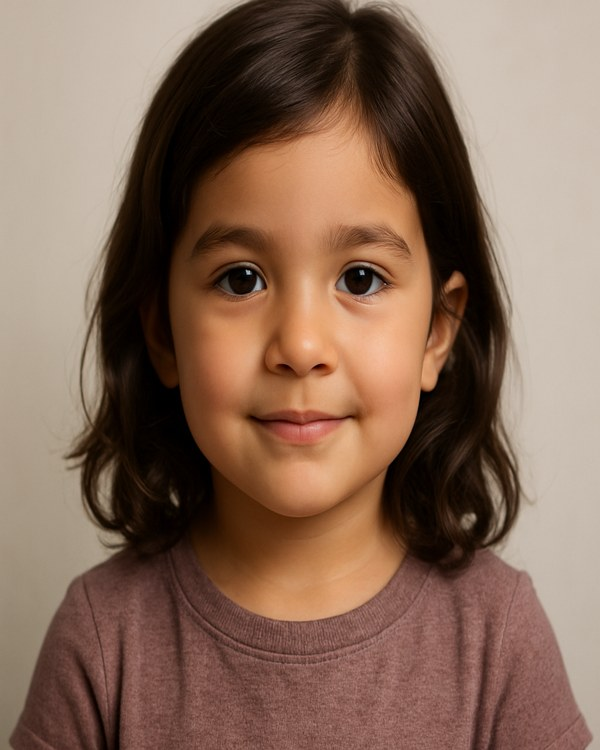
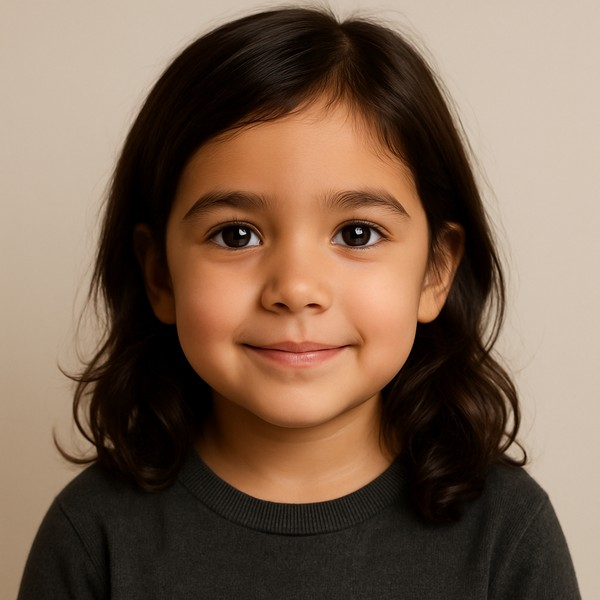
fix: square 1:1 demo portraits blended from parent refs
Crop demo father/mother to 600x600 and regenerate boy/girl children
via OpenAI images.edit from both parents; use aspect-square frames.

diff --git a/components/DemoExample.tsx b/components/DemoExample.tsx
@@ -31,7 +31,7 @@ export const DemoExample: React.FC = () => {
       <div className="grid grid-cols-1 md:grid-cols-3 gap-6 md:gap-8 items-stretch">
         {/* Father */}
         <figure className="flex flex-col gap-3">
-          <div className="relative aspect-[4/5] rounded-3xl overflow-hidden bg-slate-100 shadow-sm border border-slate-100">
+          <div className="relative aspect-square rounded-3xl overflow-hidden bg-slate-100 shadow-sm border border-slate-100">
             <img
               src="/demo/father.jpg"
               alt="Example father portrait"
@@ -52,7 +52,7 @@ export const DemoExample: React.FC = () => {
 
         {/* Mother */}
         <figure className="flex flex-col gap-3">
-          <div className="relative aspect-[4/5] rounded-3xl overflow-hidden bg-slate-100 shadow-sm border border-slate-100">
+          <div className="relative aspect-square rounded-3xl overflow-hidden bg-slate-100 shadow-sm border border-slate-100">
             <img
               src="/demo/mother.jpg"
               alt="Example mother portrait"
@@ -73,7 +73,7 @@ export const DemoExample: React.FC = () => {
 
         {/* Predicted child */}
         <div className="flex flex-col gap-3">
-          <div className="relative aspect-[4/5] rounded-3xl overflow-hidden bg-slate-100 shadow-md border border-indigo-100">
+          <div className="relative aspect-square rounded-3xl overflow-hidden bg-slate-100 shadow-md border border-indigo-100">
             <img
               src={tab === 'girl' ? '/demo/child-girl.jpg' : '/demo/child-boy.jpg'}
               alt={`Example predicted ${tab} child`}
